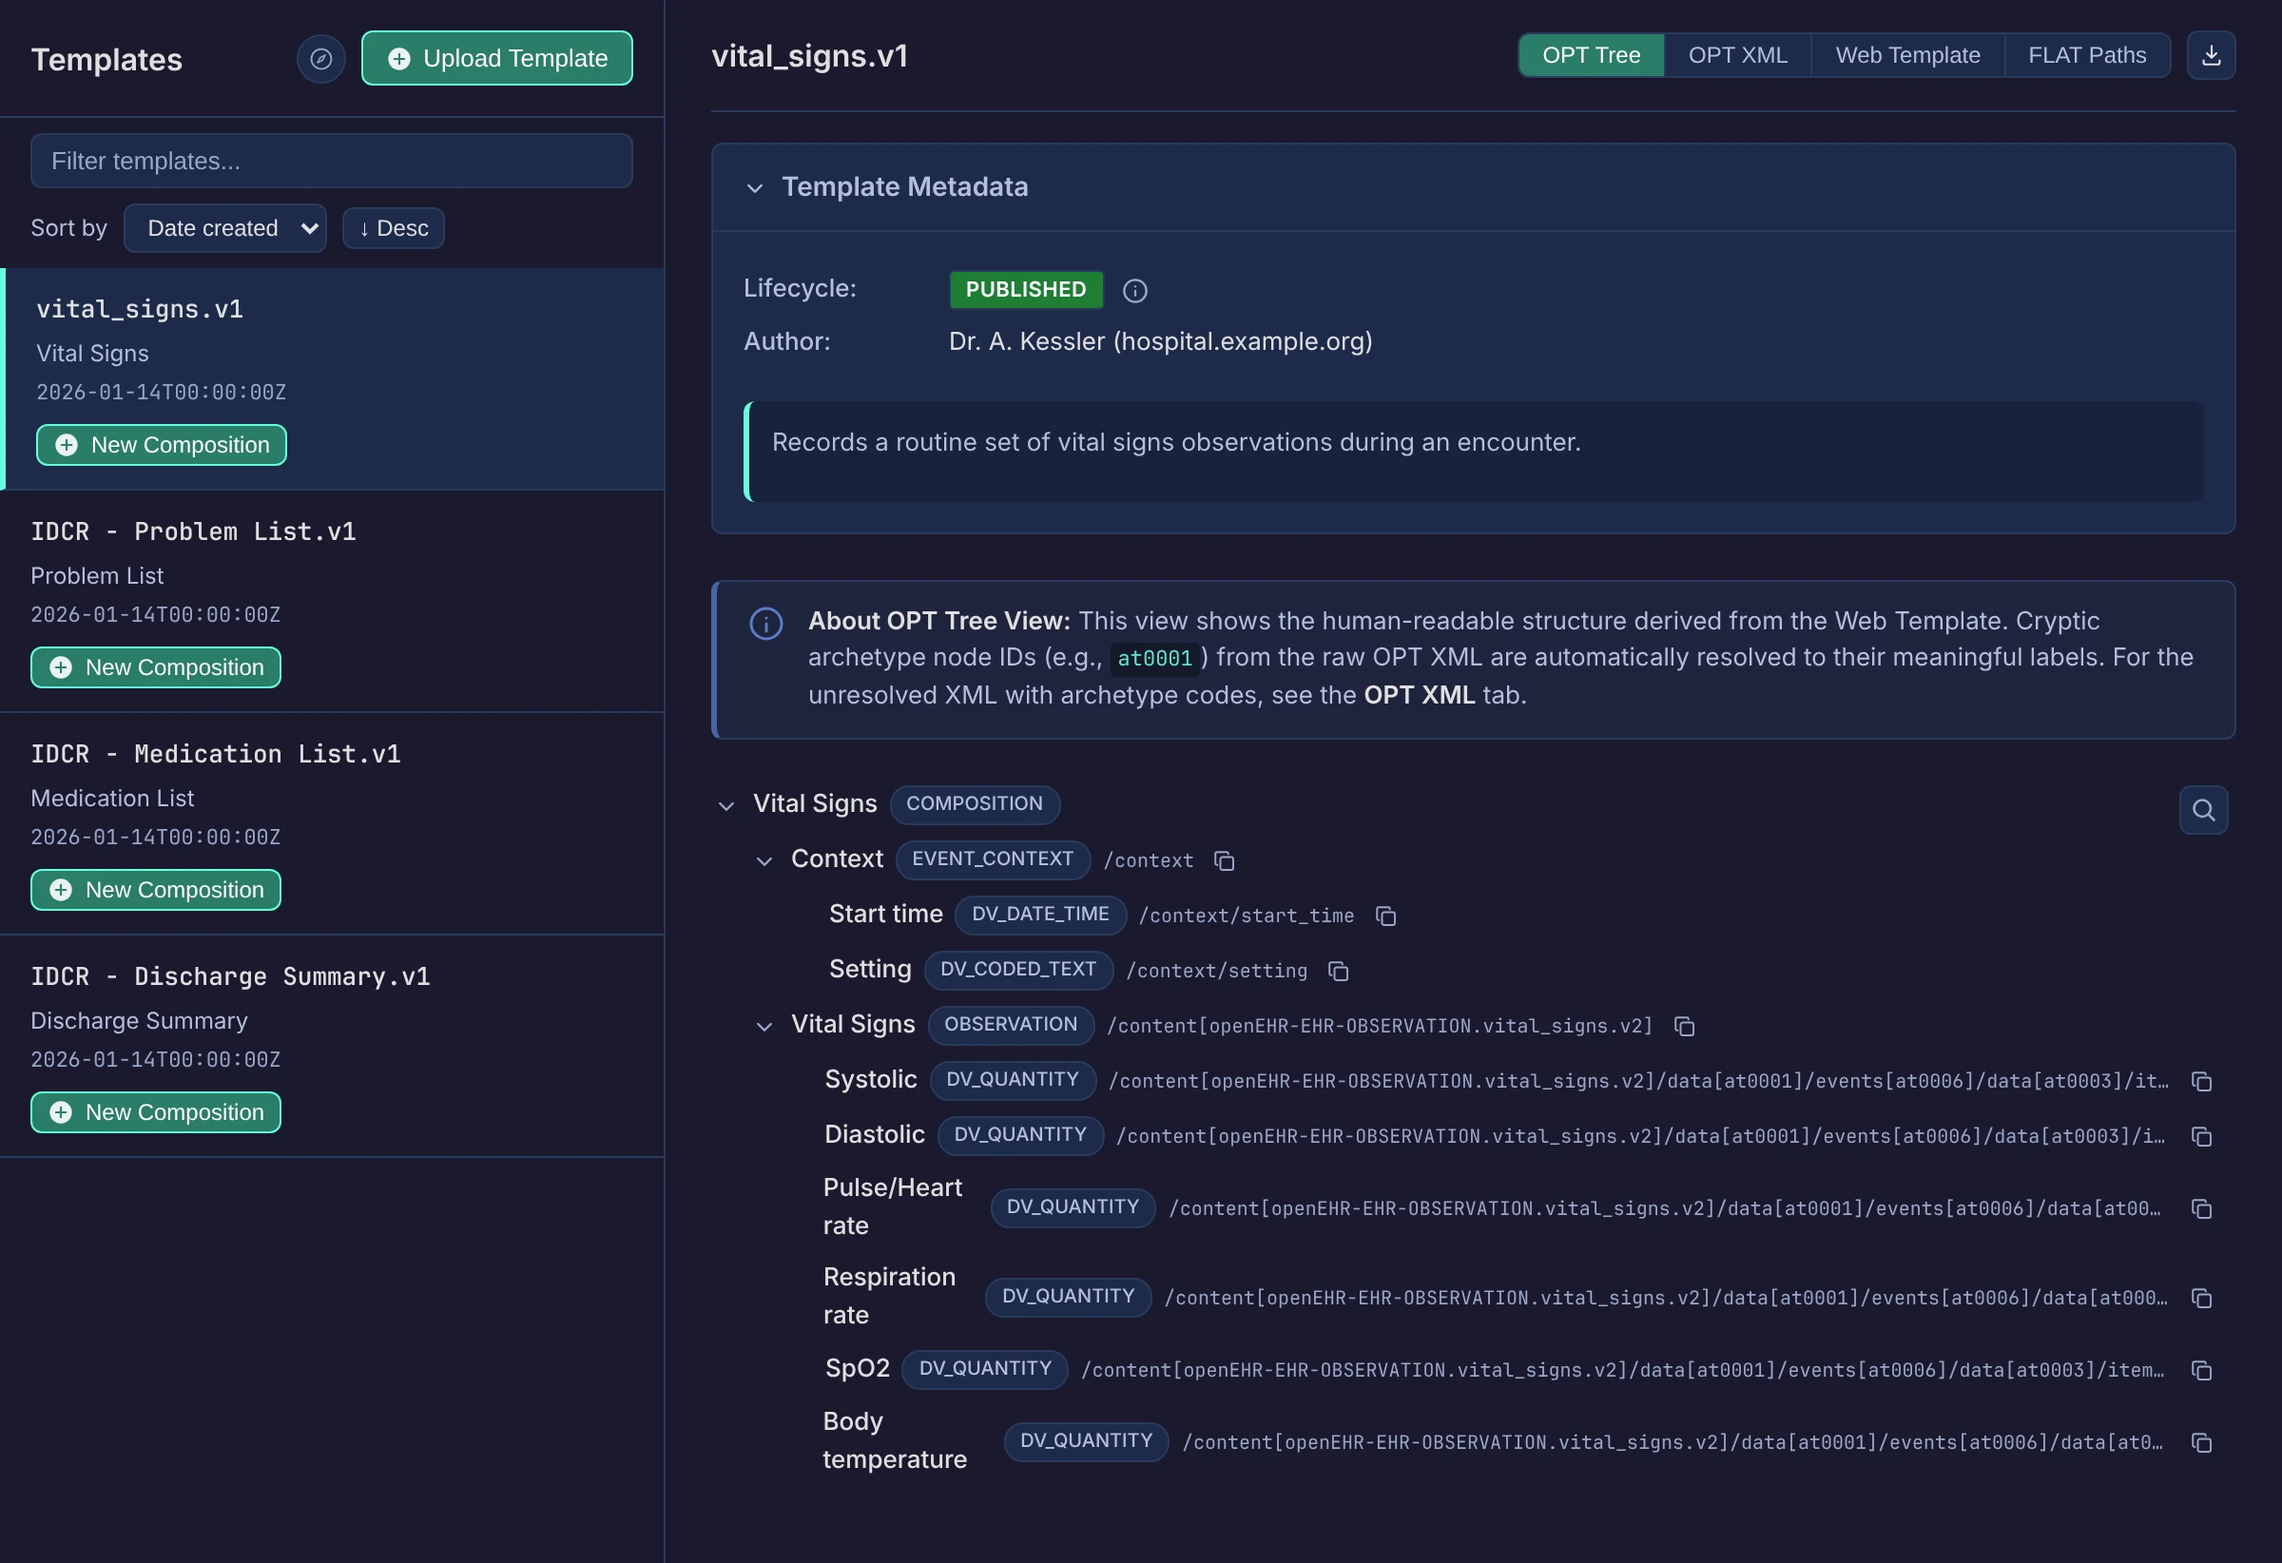
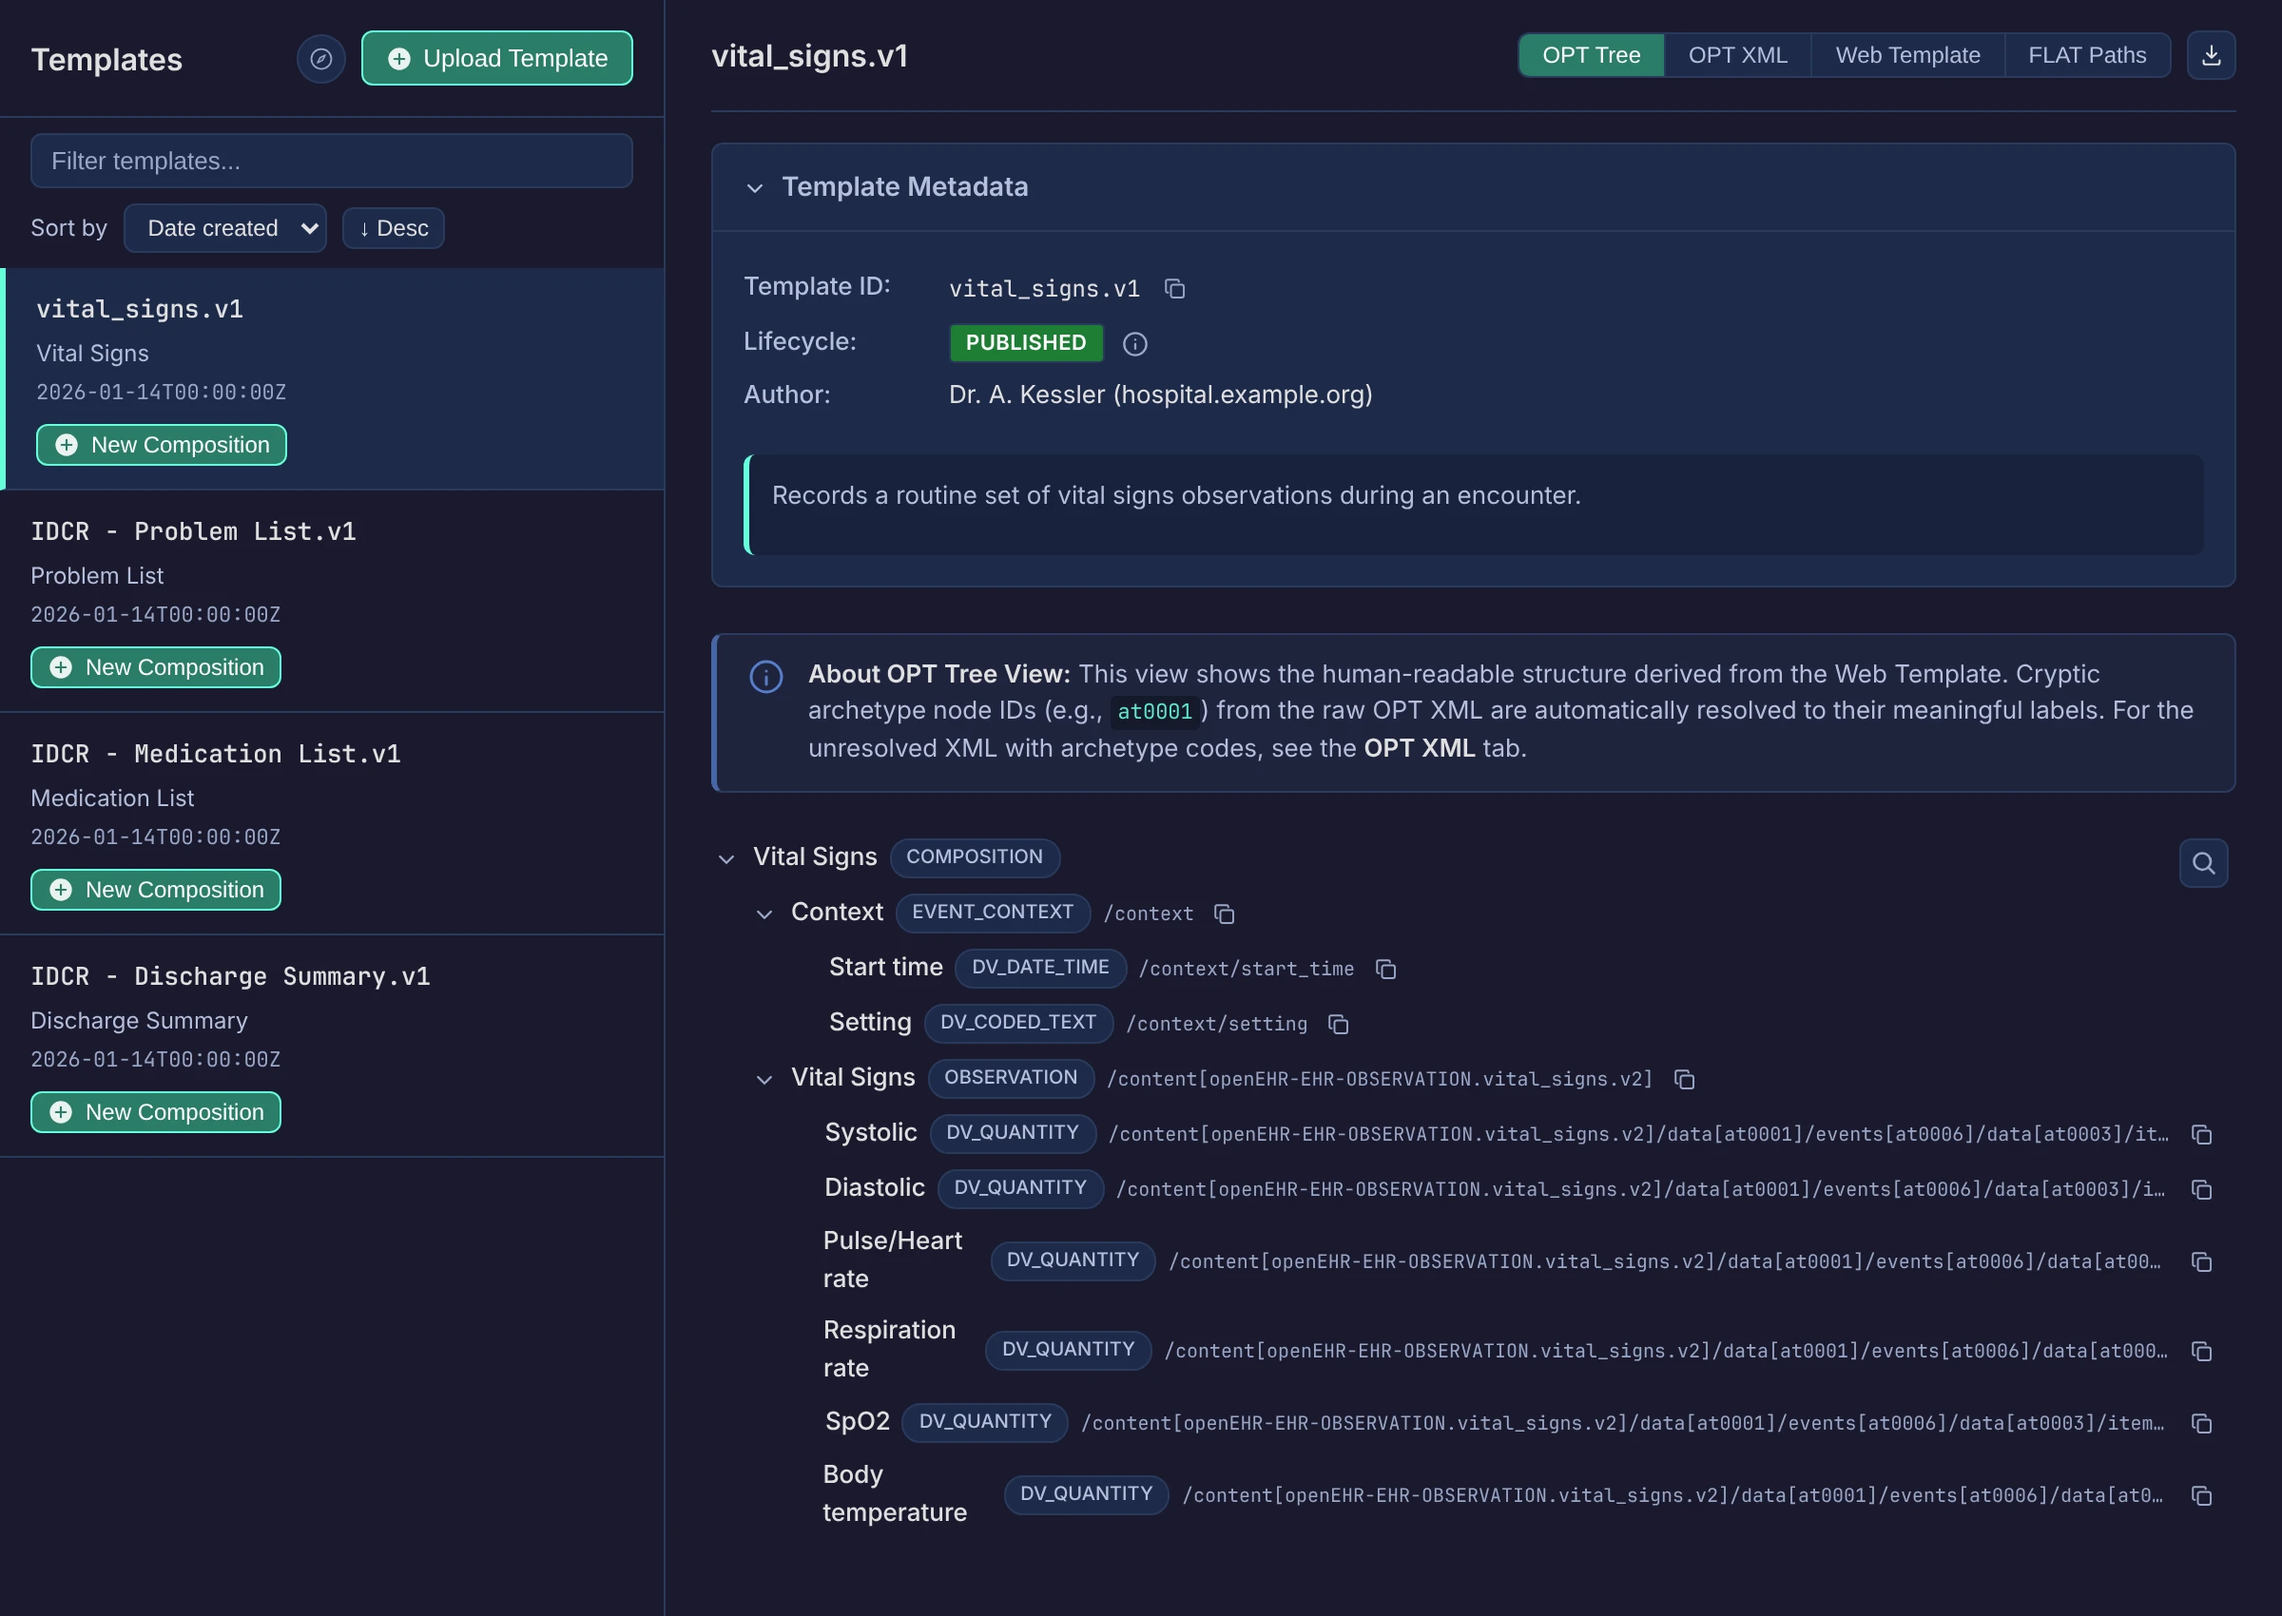
chore: bump version to 0.10.2 (#297)

diff --git a/src/lib/whats-new.ts b/src/lib/whats-new.ts
@@ -27,6 +27,17 @@ export interface WhatsNewEntry {
 
 export const WHATS_NEW: WhatsNewEntry[] = [
   {
+    version: "0.10.2",
+    date: "2026-11-07",
+    highlights: [
+      {
+        title: "Copy a template's ID",
+        description:
+          "Template Metadata in the Template Browser now shows the template ID, with a copy button so you can paste it straight into a query or API call.",
+      },
+    ],
+  },
+  {
     version: "0.10.1",
     date: "2026-11-07",
     highlights: [
